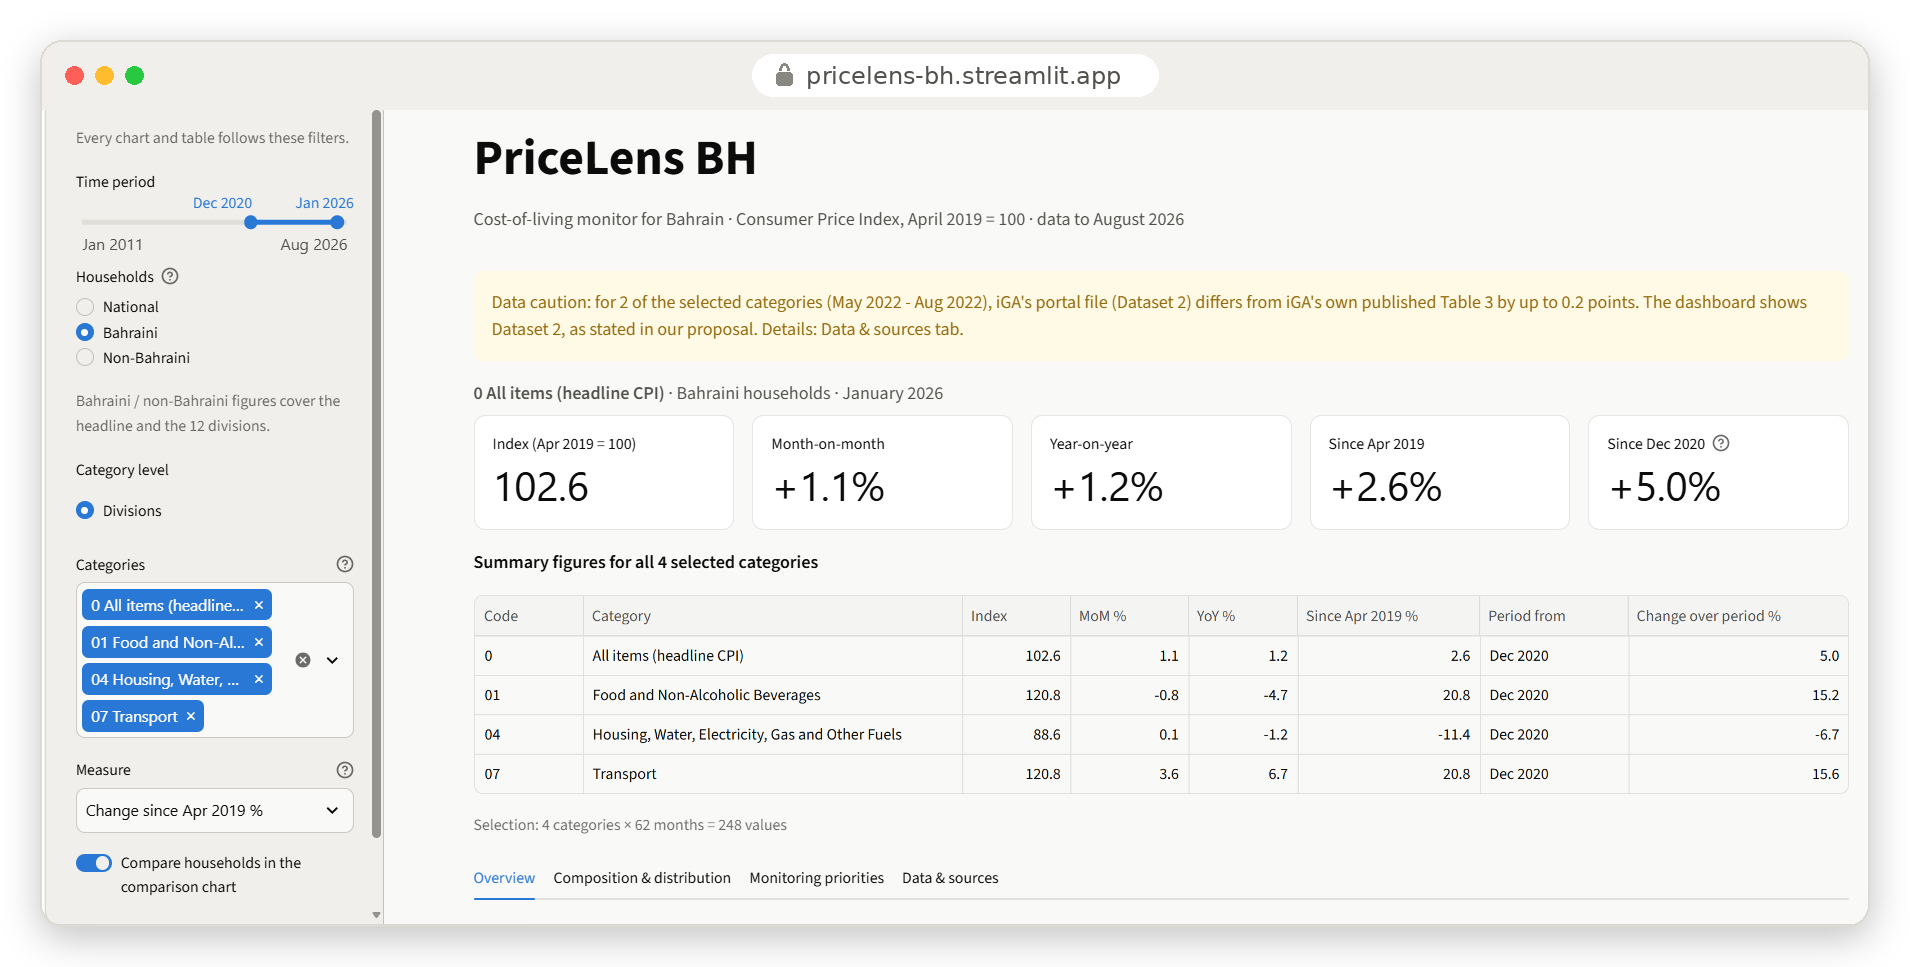
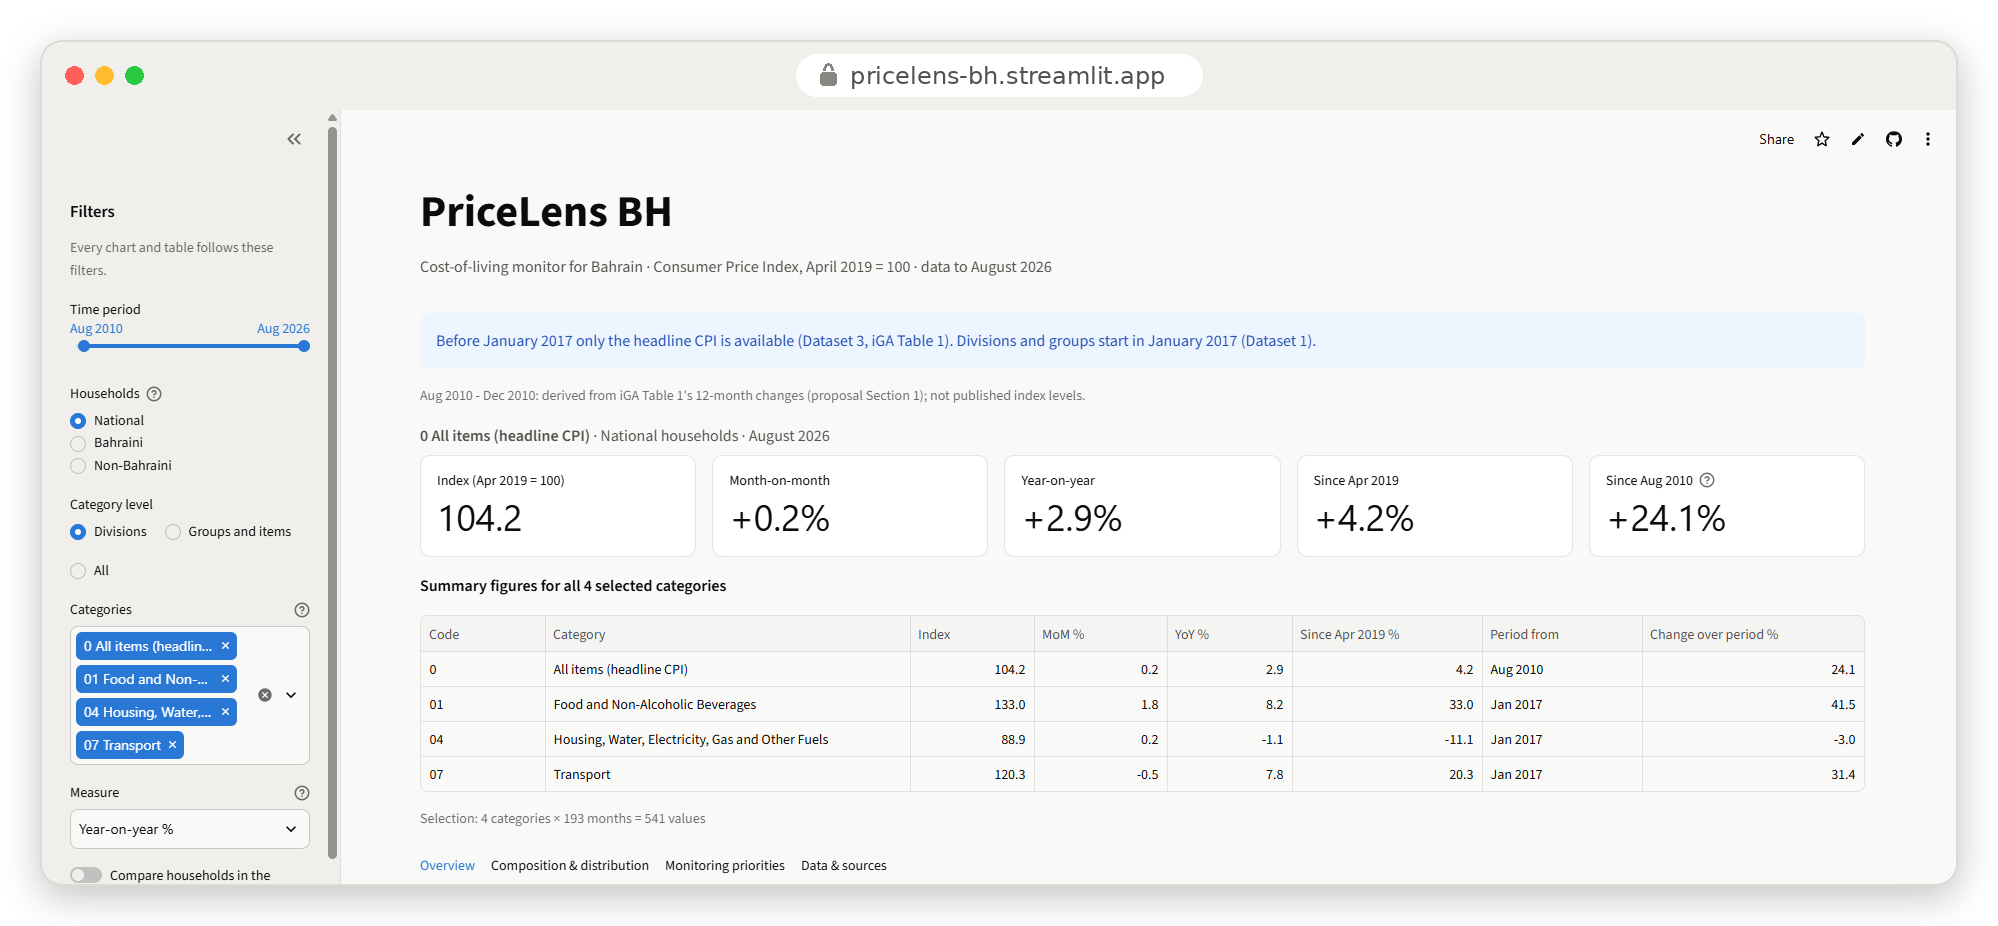
Update README visuals and screenshot; strict zip calls

diff --git a/src/pipeline/prepare.py b/src/pipeline/prepare.py
@@ -48,7 +48,7 @@ def _tidy_codes(raw: pd.DataFrame, source: str, log: QualityLog) -> pd.DataFrame
     df = raw.copy()
     df["published_label"] = df["raw_name"].map(lambda v: labels.clean_name(v, fix_spelling=False))
     df["raw_name"] = df["raw_name"].map(labels.clean_name)
-    df["code"] = [labels.resolve_code(c, n) for c, n in zip(df["raw_code"], df["published_label"])]
+    df["code"] = [labels.resolve_code(c, n) for c, n in zip(df["raw_code"], df["published_label"], strict=True)]
     if df["code"].isna().any():
         bad = df.loc[df["code"].isna(), "raw_name"].unique()[:5]
         raise ValueError(f"{source}: {df['code'].isna().sum()} rows have no usable code, e.g. {list(bad)}")
@@ -194,7 +194,7 @@ def prepare_d2(raw: pd.DataFrame, log: QualityLog) -> pd.DataFrame:
 def prepare_weights(raw: pd.DataFrame, log: QualityLog) -> pd.DataFrame:
     df = raw.copy()
     df["raw_name"] = df["raw_name"].map(labels.clean_name)
-    df["code"] = [labels.resolve_code(c, n) for c, n in zip(df["raw_code"], df["raw_name"])]
+    df["code"] = [labels.resolve_code(c, n) for c, n in zip(df["raw_code"], df["raw_name"], strict=True)]
     df = df[df["code"].notna()]
     df["weight"] = _to_number(df["raw_value"])
     df = df[df["weight"].notna()].copy()
@@ -209,7 +209,7 @@ def prepare_weights(raw: pd.DataFrame, log: QualityLog) -> pd.DataFrame:
     status = "ok" if abs(total - 100) <= 0.1 else "warning"
     log.add("D3", "Division weights add up to 100%", round(total, 2),
             f"{len(divisions)} divisions", status)
-    df["name"] = [config.DIVISION_NAMES.get(c, n) for c, n in zip(df["code"], df["raw_name"])]
+    df["name"] = [config.DIVISION_NAMES.get(c, n) for c, n in zip(df["code"], df["raw_name"], strict=True)]
     return df[["code", "name", "level", "division", "weight", "source_sheet", "source_row"]].reset_index(drop=True)
 
 
@@ -284,7 +284,7 @@ def crosscheck_table_201(raw_idx: pd.DataFrame, d1: pd.DataFrame, log: QualityLo
     """Every Dataset 1 value vs iGA's own Table 2.01 for the months both cover."""
     t = raw_idx.copy()
     t["code"] = [labels.resolve_code(c, labels.clean_name(n, False)) if pd.notna(c) or pd.notna(n) else None
-                 for c, n in zip(t["raw_code"], t["raw_name"])]
+                 for c, n in zip(t["raw_code"], t["raw_name"], strict=True)]
     t.loc[t["raw_name"].astype(str).str.strip().str.lower().eq("all divisions"), "code"] = config.HEADLINE_CODE
     t["d3"] = _to_number(t["raw_value"])
     t = t.dropna(subset=["code", "d3", "period"])
@@ -313,7 +313,7 @@ def crosscheck_table_3(raw_nat: pd.DataFrame, d2: pd.DataFrame, log: QualityLog)
     t["published"] = t["raw_name"].map(lambda v: labels.clean_name(v, fix_spelling=False))
     t["code"] = [config.HEADLINE_CODE if pd.isna(c) and str(n).strip().lower() == "all divisions"
                  else (labels.normalise_code(c) if pd.notna(c) else None)
-                 for c, n in zip(t["raw_code"], t["published"])]
+                 for c, n in zip(t["raw_code"], t["published"], strict=True)]
     t["iga_table3"] = _to_number(t["raw_value"])
     t = t.dropna(subset=["code", "iga_table3", "period"])
     m = t.merge(d2[["period", "code", "population", "index"]].dropna(), on=["period", "code", "population"])

diff --git a/src/dashboard/page.py b/src/dashboard/page.py
@@ -160,7 +160,7 @@ def sidebar_filters(data: PreparedData) -> tuple[A.Filters, bool]:
         available["level"].isin([0, 1] if level == "Divisions" else [2, 3])]
     options = pool["code"].tolist()
     default = [c for c in ["0", "01", "04", "07"] if c in options] or options[:3]
-    names = dict(zip(lab["code"], lab["name"]))
+    names = dict(zip(lab["code"], lab["name"], strict=True))
     codes = st.sidebar.multiselect(
         "Categories", options, default=default, key=f"f_codes_{population}_{level}",
         max_selections=MAX_CATEGORIES, format_func=lambda c: f"{c}  {names.get(c, '')}",
@@ -222,7 +222,7 @@ def chart_trend(data: PreparedData, f: A.Filters) -> None:
     if df.empty:
         st.info("No data for this selection.")
         return
-    names = dict(zip(data.labels["code"], data.labels["name"]))
+    names = dict(zip(data.labels["code"], data.labels["name"], strict=True))
     codes, _ = cd.usable_codes(data.cpi, f)
     n_months = df["period"].nunique()
     if n_months > 48:     # long range: one label per year, no dots
@@ -394,7 +394,8 @@ def sources_section(data: PreparedData) -> None:
          "Terms link": v.get("licence_url", "")}
         for (k, v), use in zip(config.SOURCES.items(), [
             "National index, all 69 categories", "Bahraini vs non-Bahraini index",
-            "Expenditure weights (Table 2.01), headline 2011-2016 (Table 1), 2010 derived"])]), hide_index=True,
+            "Expenditure weights (Table 2.01), headline 2011-2016 (Table 1), 2010 derived"], strict=True)]),
+        hide_index=True,
         column_config={"Link": st.column_config.LinkColumn(), "Terms link": st.column_config.LinkColumn()})
     if data.discrepancies is not None and len(data.discrepancies):
         st.subheader("Known source discrepancy")

diff --git a/tests/fixtures.py b/tests/fixtures.py
@@ -71,7 +71,7 @@ def make_d1(path: Path) -> None:
     rows = []
     for k, code in enumerate(D1_CODES):
         values = _series(code, months, seed=k)
-        for p, v in zip(months, values):
+        for p, v in zip(months, values, strict=True):
             if code == "10" and p >= pd.Timestamp("2025-09-01"):
                 v = 111.4                       # flat after Sep 2025 (like question 12)
             text = PLANTED.get((code, f"{p:%Y-%m}"), _fmt(v, p))
@@ -98,7 +98,7 @@ def make_d2(path: Path) -> None:
     for k, code in enumerate(D2_CODES):
         for j, nat in enumerate(["Bahraini", "Non-Bahraini"]):
             values = _series(code, pd.date_range("2019-04-01", "2026-09-01", freq="MS"), seed=100 + 2 * k + j)[1:]
-            for p, v in zip(months, values):
+            for p, v in zip(months, values, strict=True):
                 text = PLANTED_D2.get((code, f"{p:%Y-%m}", nat), f"{v:.1f}")
                 rows.append({"Year": p.year, "Month": p.strftime("%m %B"), "COICOP Code": code,
                              "Level": 1.0 if code == "0" else 2.0,

diff --git a/src/pipeline/load.py b/src/pipeline/load.py
@@ -144,7 +144,7 @@ def _standardise(df: pd.DataFrame, cols: dict[str, str], source: str) -> pd.Data
         "raw_value": df[cols["value"]],
     })
     if "year" in cols and "month" in cols:
-        out["period"] = [to_period(y, m) for y, m in zip(df[cols["year"]], df[cols["month"]])]
+        out["period"] = [to_period(y, m) for y, m in zip(df[cols["year"]], df[cols["month"]], strict=True)]
     else:
         out["period"] = [parse_period_text(v) for v in df[cols["period"]]]
     if "nationality" in cols:

diff --git a/README.md b/README.md
@@ -43,13 +43,13 @@
 ## ✨ What it does
 
 PriceLens BH turns Bahrain's official consumer price index into answers analysts can quote with confidence.
-The data pipeline and analytics dashboard (F1 - F3) are complete and live.
+The data pipeline and analytics dashboard (F1 - F3) are complete and live, and the tools the model will call are ready.
 
 <table>
   <tr>
     <td width="33%" valign="top">
-      <h3>🔎 15 years of prices</h3>
-      Filter by period (2010 - Aug 2026), household (national, Bahraini, non-Bahraini), category and measure.
+      <h3>🔎 16 years of prices</h3>
+      Filter by period (2010 - Aug 2026; 2010 derived), household (national, Bahraini, non-Bahraini), category and measure.
     </td>
     <td width="33%" valign="top">
       <h3>📈 Four analytical views</h3>
@@ -81,7 +81,7 @@ The data pipeline and analytics dashboard (F1 - F3) are complete and live.
 | Part | Features | Status |
 |---|---|---|
 | Data pipeline and analytics dashboard | F1 · F2 · F3 | ✅ Done |
-| Question answering over data | F4 · F6 · F8 | ⏳ Coming next |
+| Question answering over data | F4 · F6 · F8 | 🔧 Model tools ready ([`tools.py`](src/pipeline/tools.py)); model next |
 | Document retrieval, citations and refusal | F5 · F7 | ⏳ Coming next |
 | Query log, configuration display and report export | F9 · F10 | ⏳ Coming next |
 | Evaluation runs, vendor benchmark and enhancements | - | ⏳ Coming next |
@@ -94,6 +94,8 @@ The data pipeline and analytics dashboard (F1 - F3) are complete and live.
 | Dataset 1 vs iGA's own Table 2.01 | **5,574 / 5,574** values match |
 | Our month-on-month and year-on-year % vs iGA's published % | **4,744 / 4,746** and **4,777 / 4,779** (the exceptions are typos in iGA's tables) |
 | Dataset 2 vs iGA's Table 3 | **179** inconsistent values found in 2022, kept as published and flagged in the dashboard |
+| 2010 headline, derived from iGA's 12-month changes | December 2010 computed two ways agrees to **0.000** points |
+| Dataset 3 version | SHA-256 fingerprint matches the group's copy on every build |
 | Automated tests | **76** passing |
 
 The held-out test questions are never run before the final evaluation.
@@ -211,11 +213,11 @@ python -m pytest -q                   # automated tests
 
 ```
 data/raw/          source files (Dataset 3 added locally)
-src/pipeline/      data loading, preparation and calculations
+src/pipeline/      data loading, preparation, calculations and the model's tools
 src/dashboard/     Streamlit dashboard: filters and charts
-scripts/           result checks and Dataset 3 download
+scripts/           result checks, Dataset 3 download, sources record
 tests/             automated tests
-docs/              data preparation, quality report, images
+docs/              data preparation, quality report, sources, images
 run_app.bat/.sh    one-click start
 ```
 
